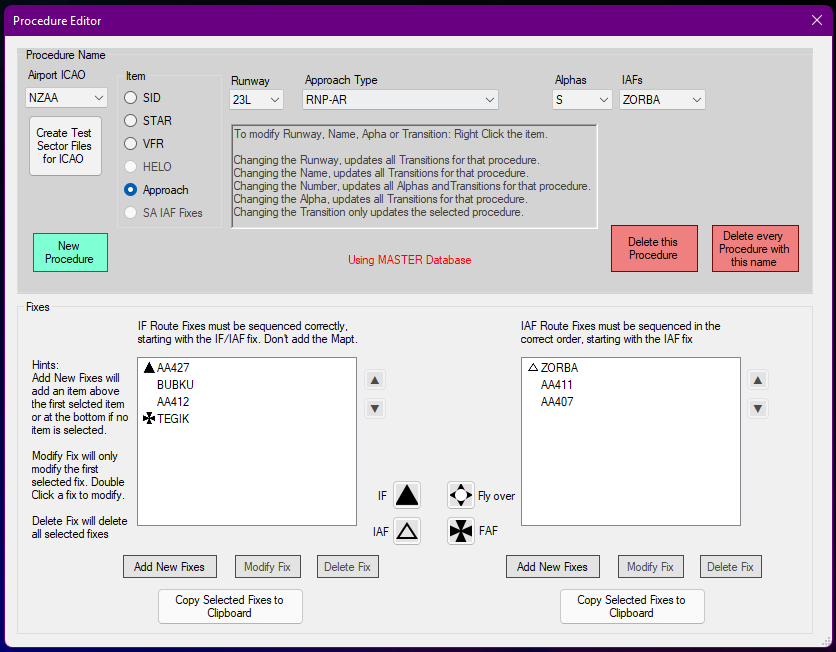
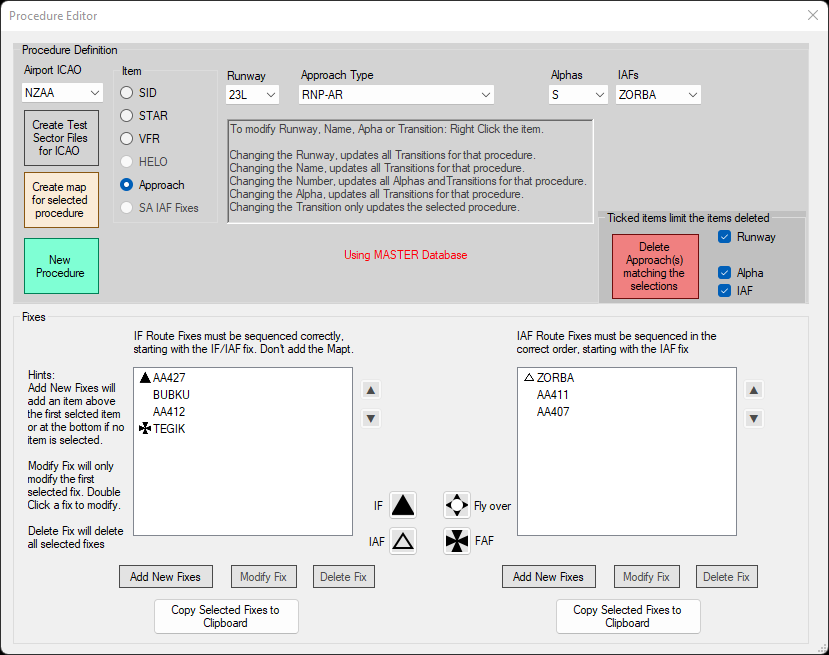
feat: Update docs for new proc deletion method.
Adds a discrete page for the deletion of procedures. Additionally removed the HELO procedures page, and moves it to the index.

diff --git a/docs/assist-us/sectorfiles/procedures/deleting.md b/docs/assist-us/sectorfiles/procedures/deleting.md
@@ -1,0 +1,21 @@
+---
+title: Deleting a Procedure
+---
+
+--8<-- "includes/abbreviations.md"
+
+
+In order to delete a procedure from the editor, you need to first navigate to that procedure, and select the applicable checkboxes that apply to your situation.
+
+| Checked boxes        | Action                                                                                                                                 |
+| -------------------- | -------------------------------------------------------------------------------------------------------------------------------------- |
+| None                 | Delete all procedures that have the same name, irrespective of runway. (IE all Auckland DAVEE STARs)                                   |
+| Runway               | Delete all procedures with the same name for that runway (IE all Auckland DAVEE STARs for 05R)                                         |
+| Runway, Number       | Delete all procedures with the same name and numeric character for that runway (IE all Auckland DAVEE STARs for 05R at number state 7) |
+| Runway, Number Alpha | Delete all procedures with the same name, number and alpha.                                                                            |
+
+!!! hint
+    There is a confirmation dialog box that appears listing all of the affected procedures, so you will have a chance to make sure you have the correct query.
+
+!!! info
+    You cannot felete a single base procedure (no transition), if that procedure has transitions assigned. If you wish to delete a procedure and all of its' transitions, you should select the procedure and tick the Runway, Number and Alpha boxes. Remember to confirm your selection before confirming the deletion.

diff --git a/docs/assist-us/sectorfiles/index.md b/docs/assist-us/sectorfiles/index.md
@@ -21,12 +21,14 @@ The Controller Data is updated in line with the AIRAC cycles, however the ANR is
 
 The SFG app can perform the following functions:
 
-*  One-click download **all** data from the Air Navigation Register, and input into `nzsectorfiles.sql`,
+*  One-click download **all** data from the Air Navigation Register, or one-click import for a provided advance copy, and input into `nzsectorfiles.sql`,
 *  Allow for the importing of manual airspace definitions, such as Enroute and TMAs,
-*  Allow for the conversion of various formats. For example from eAIP draw format to Sector File/Sector Line/vatSys Airspace Map and Volume/vatSpy boundary,
+*  Allow for the conversion of various formats. For example from eAIP draw format to Sector File/Sector Line/vatSys Airspace Map, Volume/vatSpy boundary and GeoJSON,
 *  Allow for the merging of airspace, through eAIP definitions (albeit with some limitations),
 *  Allow for the manual import and mapping of different procedures (STARs, SIDs, VFR arrival/departures, GNSS and RNP approaches),
+*  Allow for the export of individual procedures to an independant map for Documentation,
 *  Conversion between different coordinate types (SCT/eAIP/Dec. Degrees/ISO Deg, DegMins, DegMinsSecs),
+*  Generate an eAIP output from a vatSys airspace map,
 *  Various vatSpy utilities.
 
 The SFG can export to both vatSys and EuroScope. The App runs various export routines that produce the various necessary outputs - `XML` for vatSys and `SCT2 / ESE` for EuroScope.

diff --git a/docs/assist-us/sectorfiles/procedures/approach.md b/docs/assist-us/sectorfiles/procedures/approach.md
@@ -58,11 +58,3 @@ These can be designated by highlighting the fix, and clicking the respective but
 ### Modifying a Procedure
 
 Procedures can be modified by finding the procedure in the main window, and then modifying the respective data. The data will save if you attempt to navigate away from the procedure by either closing the window or select another procedure.
-
-### Deleting a Procedure
-
-Procedures can be deleted by navigating to the procedure, and clicking either the ++"Delete this Procedure"++ or ++"Delete every Procedure with this name"++ buttons. 
-
-++"Delete this Procedure"++ will delete only the procedure selected. In the case that you attempt to delete a base procedure while transitions for that procedure still exist, you will need to delete all transitions first.
-
-++"Delete every Procedure with this name"++ will delete every procedure with that have the same procedure name. This is regardless of the Runway, Number or Alpha fields. **You should not use this function if you wish to delete a single procedure**.

diff --git a/docs/assist-us/sectorfiles/procedures/arrivals.md b/docs/assist-us/sectorfiles/procedures/arrivals.md
@@ -43,11 +43,3 @@ The only difference here is that you should designate what fix is the Initial Ap
 ### Modifying a Procedure
 
 Procedures can be modified by finding the procedure in the main window, and then modifying the respective data. The data will save if you attempt to navigate away from the procedure by either closing the window or select another procedure.
-
-### Deleting a Procedure
-
-Procedures can be deleted by navigating to the procedure, and clicking either the ++"Delete this Procedure"++ or ++"Delete every Procedure with this name"++ buttons. 
-
-++"Delete this Procedure"++ will delete only the procedure selected. In the case that you attempt to delete a base procedure while transitions for that procedure still exist, you will need to delete all transitions first.
-
-++"Delete every Procedure with this name"++ will delete every procedure with that have the same procedure name. This is regardless of the Runway, Number or Alpha fields. **You should not use this function if you wish to delete a single procedure**.

diff --git a/docs/assist-us/sectorfiles/procedures/departures.md b/docs/assist-us/sectorfiles/procedures/departures.md
@@ -75,11 +75,3 @@ The example above shows the `RUXOX4S` for Runway 07 at Palmerston North.
 ### Modifying a Procedure
 
 Procedures can be modified by finding the procedure in the main window, and then modifying the respective data. The data will save if you attempt to navigate away from the procedure by either closing the window or select another procedure.
-
-### Deleting a Procedure
-
-Procedures can be deleted by navigating to the procedure, and clicking either the ++"Delete this Procedure"++ or ++"Delete every Procedure with this name"++ buttons. 
-
-++"Delete this Procedure"++ will delete only the procedure selected. In the case that you attempt to delete a base procedure while transitions for that procedure still exist, you will need to delete all transitions first.
-
-++"Delete every Procedure with this name"++ will delete every procedure with that have the same procedure name. This is regardless of the Runway, Number or Alpha fields. **You should not use this function if you wish to delete a single procedure**.

diff --git a/docs/assist-us/sectorfiles/procedures/index.md b/docs/assist-us/sectorfiles/procedures/index.md
@@ -29,6 +29,8 @@ After an aerodrome has been added to either of the required tables, it will show
 
 For procedures that have transitions (SIDs, STARs and approaches), you are required to add the base procedure, and then the various transition routings. This is further defined in the various procedure sections.
 
+We have chosen not to model helicopter procedures in New Zealand, due to there are not many helicopter procedures in use around the country; and where helicopter procedures *do* exist, they are relatively short.
+
 ## What happens on export?
 
 On export, the ProcEd largely performs the same actions for both the vatSys and EuroScope releases, but performs and exports them slightly differently. 
